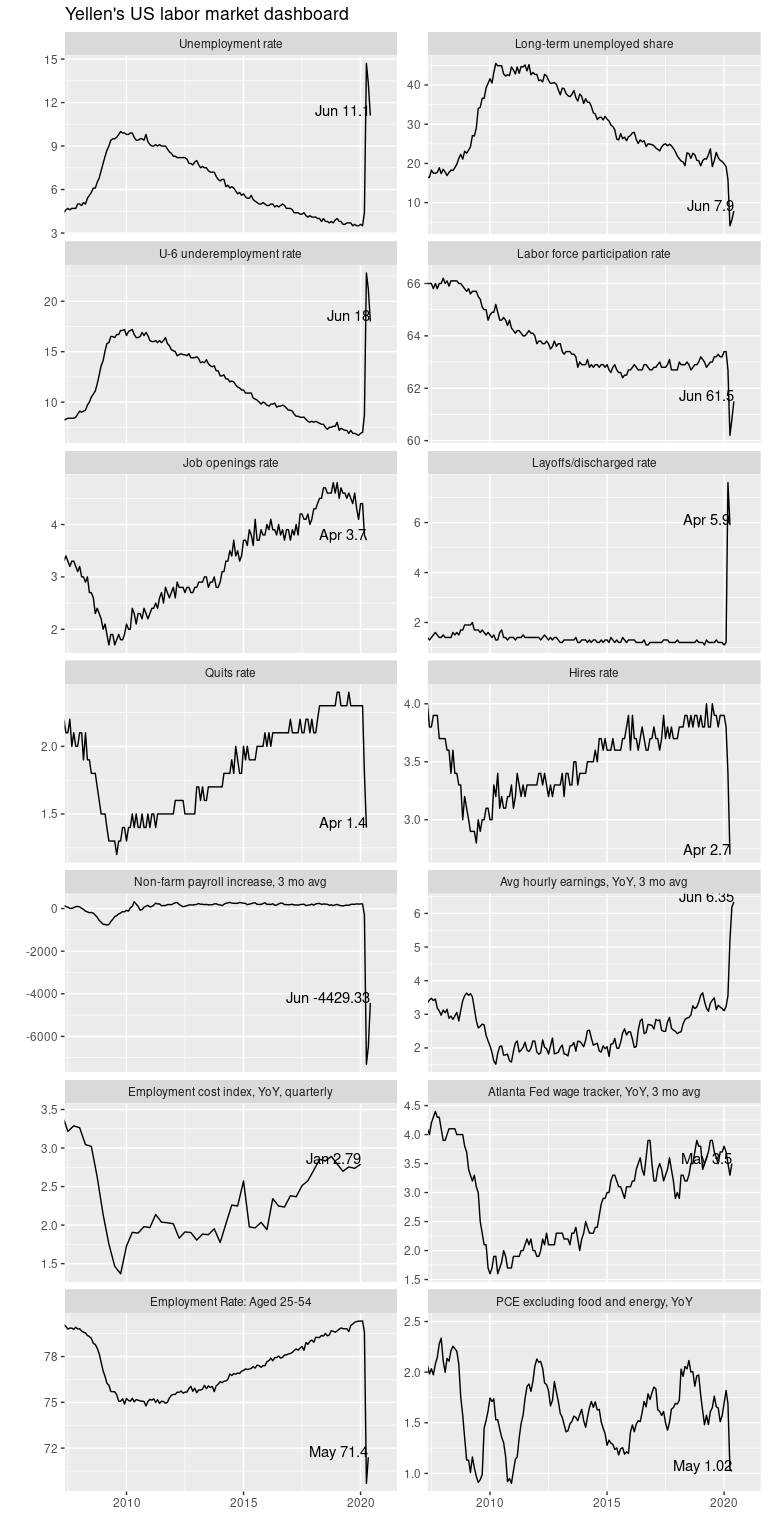
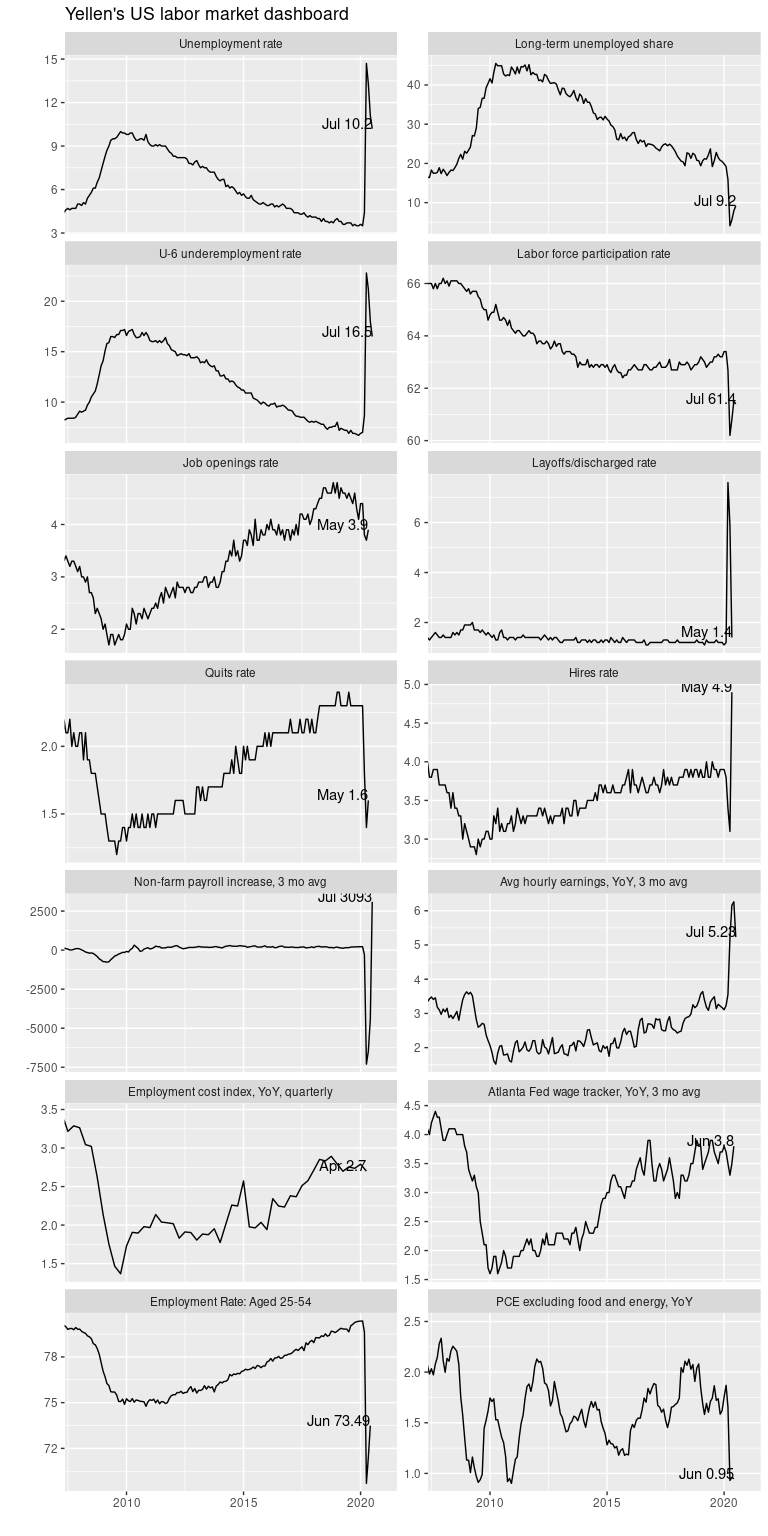
update July 2020 employment

diff --git a/README.md b/README.md
@@ -14,7 +14,7 @@ Mitsuo Shiota
   - [Prepare for the plot](#prepare-for-the-plot)
   - [Dashboard](#dashboard)
 
-Updated: 2020-07-03
+Updated: 2020-08-08
 
 ## Summary
 
